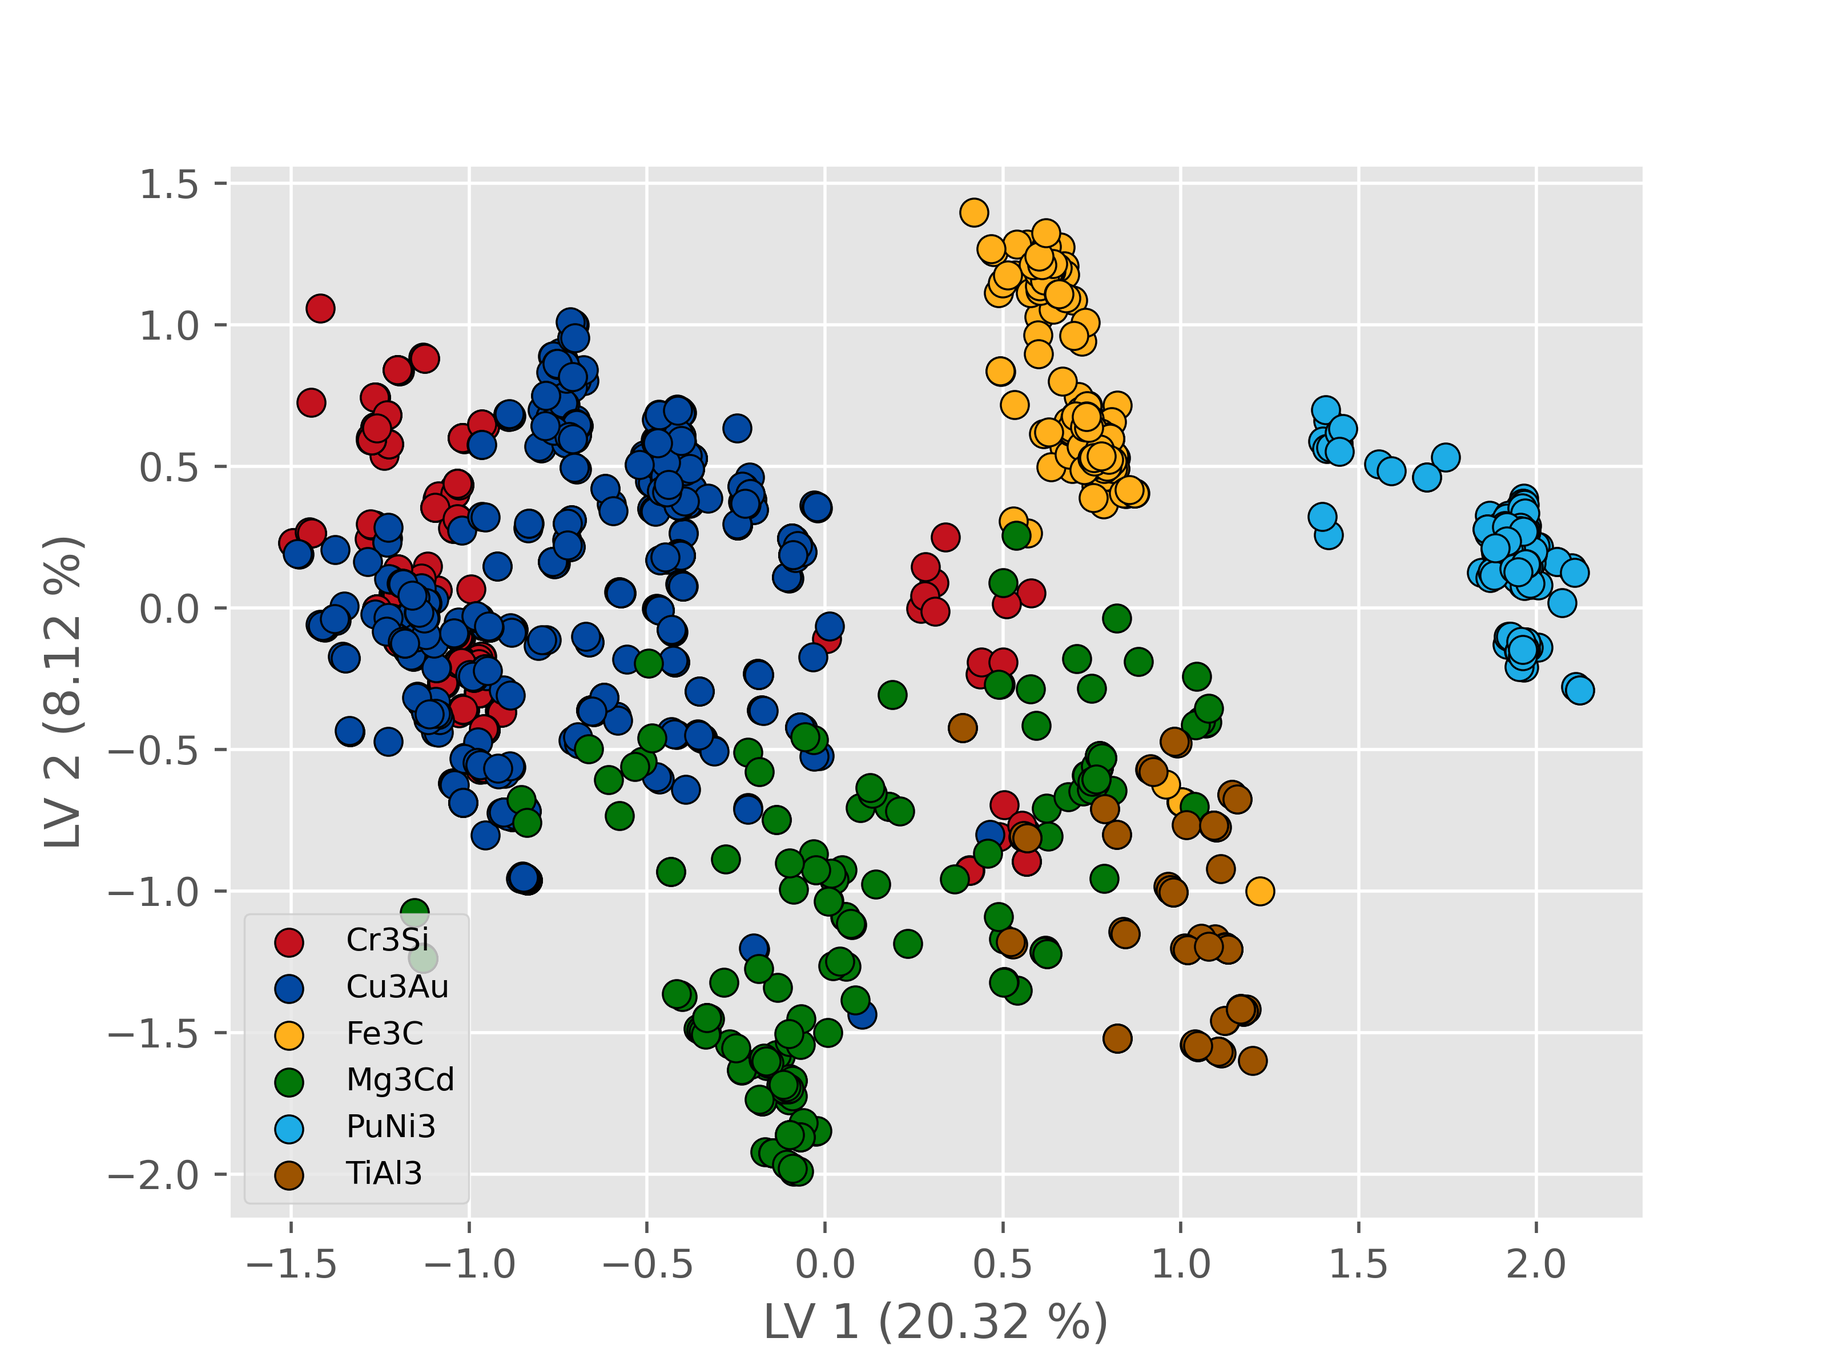
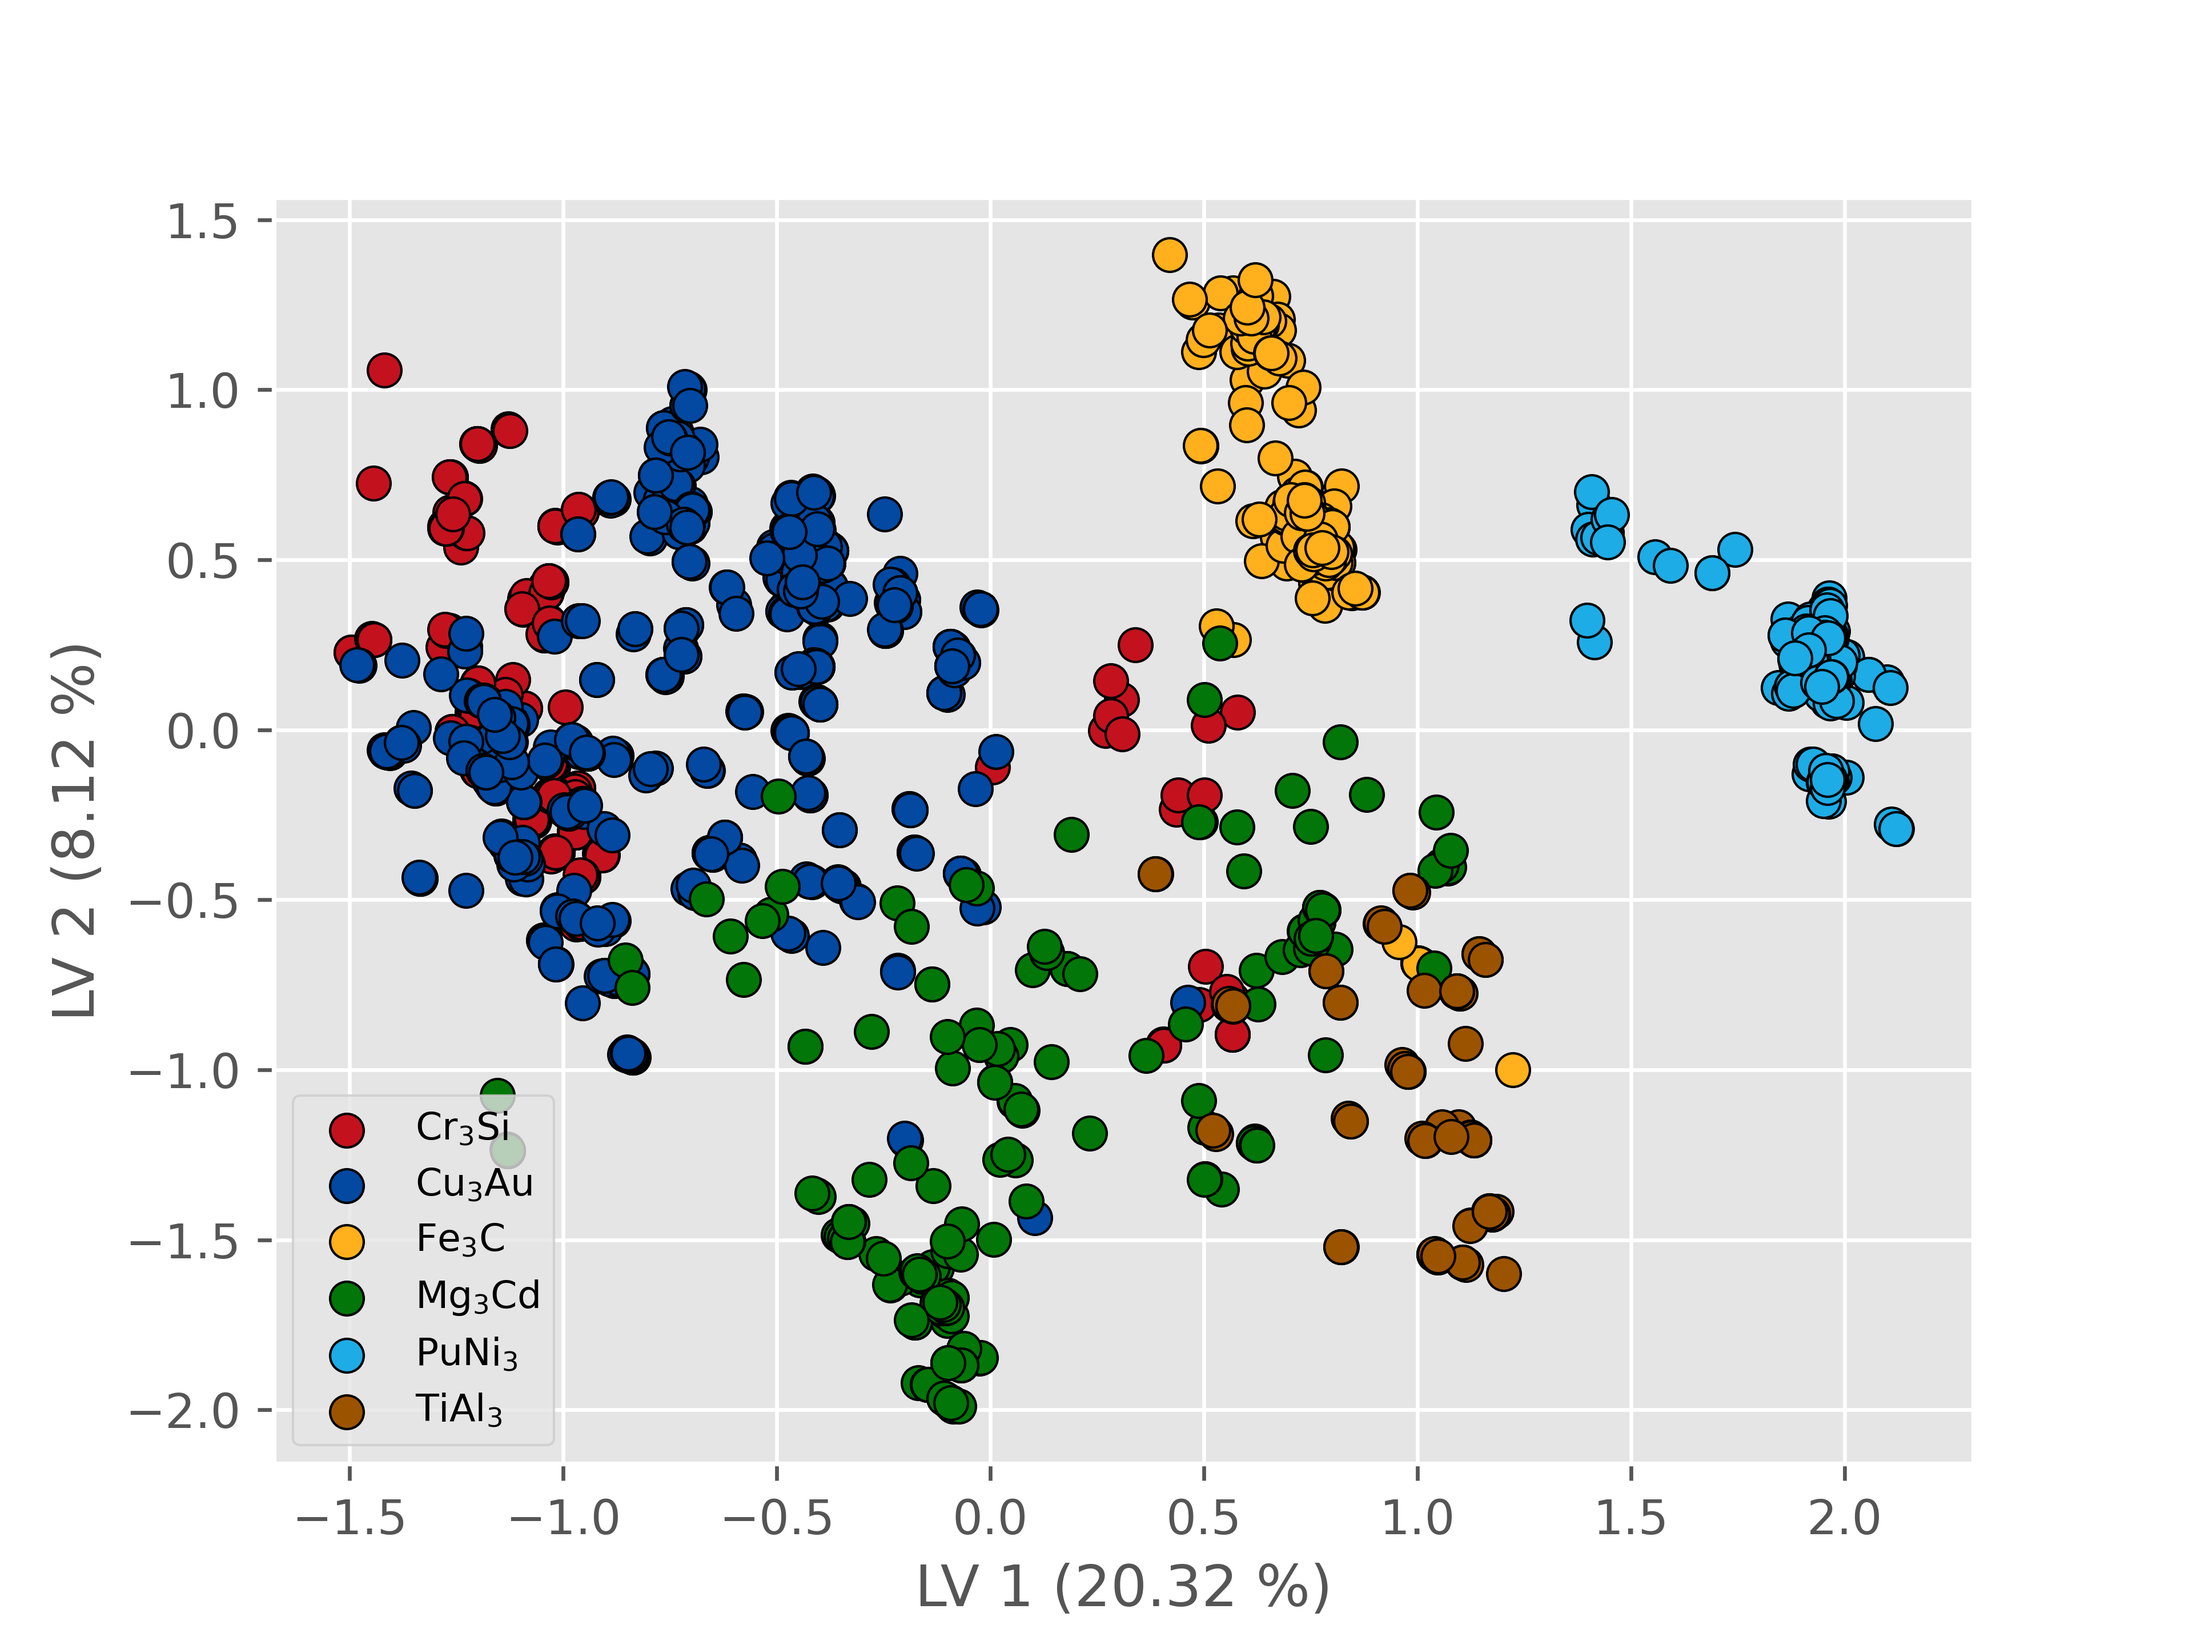
Updated class numbers

diff --git a/core/models/PLS_DA.py b/core/models/PLS_DA.py
@@ -10,6 +10,8 @@ from sklearn.metrics import (
 )
 from sklearn.model_selection import StratifiedKFold, cross_val_predict
 from sklearn.preprocessing import LabelEncoder
+from sklearn.preprocessing import OneHotEncoder
+from scipy.special import softmax
 
 from core import folder
 
@@ -96,7 +98,7 @@ def save_correlation_matrix(X, X_columns, csv_file_path):
 def generate_classification_report(X_scaled, y, pls):
     # Import necessary modules
     encoder = LabelEncoder()
-    y_encoded = encoder.fit_transform(y)
+    y_encoded = encoder.fit_transform(y) + 1
 
     # Set up 10-fold cross-validation
     skf = StratifiedKFold(n_splits=10, shuffle=True, random_state=19)
@@ -123,41 +125,47 @@ def generate_classification_report(X_scaled, y, pls):
 
     return class_report
 
-
-
-def validate_PLS_DA_model(pls, X_val, csv_file_path, validation_csv_file):
+def validate_PLS_DA_model(pls, X, y, X_val, csv_file_path, validation_csv_file):
     """
-    Validates the PLS-DA model on a given validation set.
-    
+    Validates the PLS-DA model on a given validation set and provides raw predicted probabilities.
+
     Parameters:
         pls: Trained PLSRegression model.
+        X: Training feature matrix.
+        y: Training target array.
         X_val: Validation feature matrix.
         csv_file_path: Path of the training data (for output organization).
         validation_csv_file: Path of the validation data.
 
     Returns:
-        y_pred_validation: Predicted classes for the validation set.
+        validation_results: DataFrame with predicted classes and probabilities for the validation set.
     """
-    # Predict class probabilities for the validation set
+
+    # One-hot encode the target variable for multi-class representation
+    encoder = OneHotEncoder(sparse_output=False)  # Updated for modern syntax
+    y_encoded = encoder.fit_transform(y.to_numpy().reshape(-1, 1)) + 1
+
+    # Fit the PLS model using one-hot encoded targets
+    pls.fit(X, y_encoded)
+
+    # Predict continuous scores for the validation set
     y_scores_validation = pls.predict(X_val)
 
-    # Convert continuous predictions to nearest class labels
-    y_pred_validation = np.rint(y_scores_validation).astype(int)
+    # Apply softmax to mimic predict_proba
+    probabilities = softmax(y_scores_validation, axis=1)
 
-    # Clip predictions to valid range of classes
-    y_pred_validation = np.clip(y_pred_validation, 0, 9)  # Adjust range if needed
+    # Convert probabilities to predicted class labels
+    y_pred_validation = np.argmax(probabilities, axis=1)
 
-    # Save predictions to a CSV file
+    # Save predictions and probabilities to a CSV file
     output_path = folder.create_folder_get_output_path(
         "PLS_DA", validation_csv_file, suffix="validation_predictions", ext="csv"
-    )  
-    validation_results = pd.DataFrame(
-        {
-            "Validation Sample": np.arange(1, len(X_val) + 1),
-            "Predicted Class": y_pred_validation.flatten(),  # Ensure proper formatting
-        }
     )
+    validation_results = pd.DataFrame(
+        probabilities, columns=[f"Class_{cls}" for cls in encoder.categories_[0]]
+    )
+    validation_results.insert(0, "Sample", np.arange(1, len(X_val) + 1))
+    validation_results["Predicted Class"] = y_pred_validation
     validation_results.to_csv(output_path, index=False)
 
-    #print(f"Validation predictions saved to {output_path}")
-    return y_pred_validation
+    return validation_results

diff --git a/core/models/XGBoost.py b/core/models/XGBoost.py
@@ -11,7 +11,7 @@ from core import folder
 def run_XGBoost(X_df, y):
     # Initialize the Label Encoder and encode the labels
     encoder = LabelEncoder()
-    y_encoded = encoder.fit_transform(y)
+    y_encoded = encoder.fit_transform(y)  # Do not shift labels here
 
     # Initialize Stratified K-Fold cross-validator
     skf = StratifiedKFold(n_splits=10, shuffle=True, random_state=19)
@@ -22,13 +22,14 @@ def run_XGBoost(X_df, y):
     # Cross-validate and get predictions for each fold
     y_pred = cross_val_predict(model, X_df, y_encoded, cv=skf)
 
-    # Decode predicted labels back to original
+    # Decode predicted labels back to original (shifted for reporting purposes)
     y_pred_decoded = encoder.inverse_transform(y_pred)
 
     # Evaluate the model
-    class_report = classification_report(y, y_pred_decoded, digits=3, output_dict=True)
+    class_report = classification_report(
+        y, y_pred_decoded, digits=3, output_dict=True, labels=encoder.classes_
+    )
     return class_report
-
 
 def plot_XGBoost_feature_importance(X_df, y_encoded, csv_file_path):
     model = XGBClassifier(eval_metric="mlogloss")
@@ -90,7 +91,7 @@ def validate_XGBoost(X_train, y_train, X_val, csv_file_path, validation_csv_file
     """
     # Initialize the Label Encoder and encode the training labels
     encoder = LabelEncoder()
-    y_train_encoded = encoder.fit_transform(y_train)
+    y_train_encoded = encoder.fit_transform(y_train)  # Keep labels starting from 0 for XGBoost
 
     # Initialize the XGBoost Classifier
     model = XGBClassifier(eval_metric="mlogloss", random_state=19)
@@ -101,9 +102,11 @@ def validate_XGBoost(X_train, y_train, X_val, csv_file_path, validation_csv_file
     # Predict probabilities for the validation set
     probabilities = model.predict_proba(X_val)
 
-    # Predicted class labels
+    # Predicted class labels (0-based)
     y_pred_encoded = probabilities.argmax(axis=1)
-    y_pred_validation = encoder.inverse_transform(y_pred_encoded)
+
+    # Shift the predicted class labels to start from 1
+    y_pred_validation = y_pred_encoded + 1
 
     # Dynamically determine the number of classes from probabilities
     n_classes = probabilities.shape[1]
@@ -112,13 +115,13 @@ def validate_XGBoost(X_train, y_train, X_val, csv_file_path, validation_csv_file
     validation_results = pd.DataFrame(
         {
             "Validation Sample": range(1, len(X_val) + 1),
-            "Predicted Class": y_pred_validation,
+            "Predicted Class": y_pred_validation,  # Predicted class as a number starting from 1
         }
     )
 
-    # Add probability columns for each class
+    # Add probability columns for each class (shift class indices to start from 1)
     for i in range(n_classes):
-        validation_results[f"Class_{i}_Probability"] = probabilities[:, i]
+        validation_results[f"Class_{i + 1}_Probability"] = probabilities[:, i]
 
     # Save predictions and probabilities to a CSV file
     output_path = folder.create_folder_get_output_path(
@@ -129,5 +132,4 @@ def validate_XGBoost(X_train, y_train, X_val, csv_file_path, validation_csv_file
     )
     validation_results.to_csv(output_path, index=False)
 
-    #print(f"Validation predictions with probabilities saved to {output_path}")
     return y_pred_validation, probabilities

diff --git a/core/models/PLS_DA_plot.py b/core/models/PLS_DA_plot.py
@@ -56,14 +56,14 @@ def plot_two_component(X, y, feature_file_path):
                 color=colors[i],
                 s=50,
                 edgecolors="k",
-                label=encoder.inverse_transform([label])[0],
+                label=format_formula_to_latex(encoder.inverse_transform([label])[0]),
             )
 
         plt.xlabel(f"LV 1 ({(explained_variance_X[0] * 100):.2f} %)")
         plt.ylabel(f"LV 2 ({(explained_variance_X[1] * 100):.2f} %)")
-        plt.legend(loc="lower left", fontsize=8)
+        plt.legend(loc="lower left", fontsize=8, title_fontsize=9)
         # plt.title(f"PLS Cross-Decomposition")
-        plt.savefig(plot_path, dpi=500)  # Save the plot as a PNG file
+        plt.savefig(plot_path, dpi=600)  # Save the plot as a PNG file
         plt.close()
         # plt.show()
 
@@ -112,7 +112,7 @@ def plot_two_component_with_validation(X, y, X_val, feature_file_path):
                 color=colors[i],
                 s=50,
                 edgecolors="k",
-                label=encoder.inverse_transform([label])[0],
+                label=format_formula_to_latex(encoder.inverse_transform([label])[0]),
             )
 
         # Plot validation data
@@ -127,12 +127,24 @@ def plot_two_component_with_validation(X, y, X_val, feature_file_path):
             label="Validation Data",
         )
 
-        # Add labels and legend
         plt.xlabel(f"LV 1 ({(explained_variance_X[0] * 100):.2f} %)")
         plt.ylabel(f"LV 2 ({(explained_variance_X[1] * 100):.2f} %)")
-        plt.legend(loc="lower left", fontsize=8)
+        plt.legend(loc="lower left", fontsize=8, title_fontsize=9)
         plt.title(f"PLS-DA Scatterplot: Training and Validation Data")  # noqa: F541
-        plt.savefig(plot_path, dpi=300)  # Save the plot as a PNG file
+        plt.savefig(plot_path, dpi=600)  # Save the plot as a PNG file
         plt.close()
 
     #print(f"Plot saved to {plot_path}")
+
+def format_formula_to_latex(formula):
+    """
+    Convert a chemical formula string into LaTeX format with subscripts.
+    E.g., "H2O" -> "H$_2$O"
+    """
+    formatted = ""
+    for char in formula:
+        if char.isdigit():  # Convert digits to subscript
+            formatted += f"$_{char}$"
+        else:
+            formatted += char
+    return formatted

diff --git a/core/models/SVM.py b/core/models/SVM.py
@@ -44,8 +44,11 @@ def validate_svc_with_probabilities(X_train, y_train, X_val, csv_file_path, vali
     # Predict probabilities for the validation set
     probabilities = model.predict_proba(X_val)
 
-    # Predicted class labels
+    # Predicted class labels (0-based)
     y_pred = probabilities.argmax(axis=1)
+
+    # Shift the predicted class labels to start from 1
+    y_pred = y_pred + 1
 
     # Dynamically determine the number of classes from probabilities
     n_classes = probabilities.shape[1]
@@ -53,14 +56,14 @@ def validate_svc_with_probabilities(X_train, y_train, X_val, csv_file_path, vali
     # Prepare the DataFrame for output
     validation_results = pd.DataFrame(
         {
-            "Validation Sample": range(1, len(X_val) + 1),
-            "Predicted Class": y_pred,
+            "Validation Sample": range(1, len(X_val) + 1),  # Validation sample numbers start from 1
+            "Predicted Class": y_pred,  # Predicted class labels starting from 1
         }
     )
 
-    # Add probability columns for each class
+    # Add probability columns for each class (shift column names to start from 1)
     for i in range(n_classes):
-        validation_results[f"Class_{i}_Probability"] = probabilities[:, i]
+        validation_results[f"Class_{i + 1}_Probability"] = probabilities[:, i]
 
     # Save predictions and probabilities to a CSV file
     output_path = folder.create_folder_get_output_path(

diff --git a/main.py b/main.py
@@ -62,7 +62,7 @@ for i, csv_file_path in enumerate(csv_file_paths, start=1):
     )
     # validation
     y_pred_val = PLS_DA.validate_PLS_DA_model(
-        best_pls, X_val, csv_file_path, validation_csv_file
+        best_pls, X, y, X_val, csv_file_path, validation_csv_file
     )
 
     print("(4/4) Running XGBoost model...")

diff --git a/core/prompt.py b/core/prompt.py
@@ -8,4 +8,4 @@ def print_label_mapping(encoder):
 
     # Print each label and its encoded value with proper spacing
     for label, encoded in label_mapping.items():
-        print(f"{label.ljust(max_label_length + 5)}| {encoded}")
+        print(f"{label.ljust(max_label_length + 5)}| {encoded+1}")
